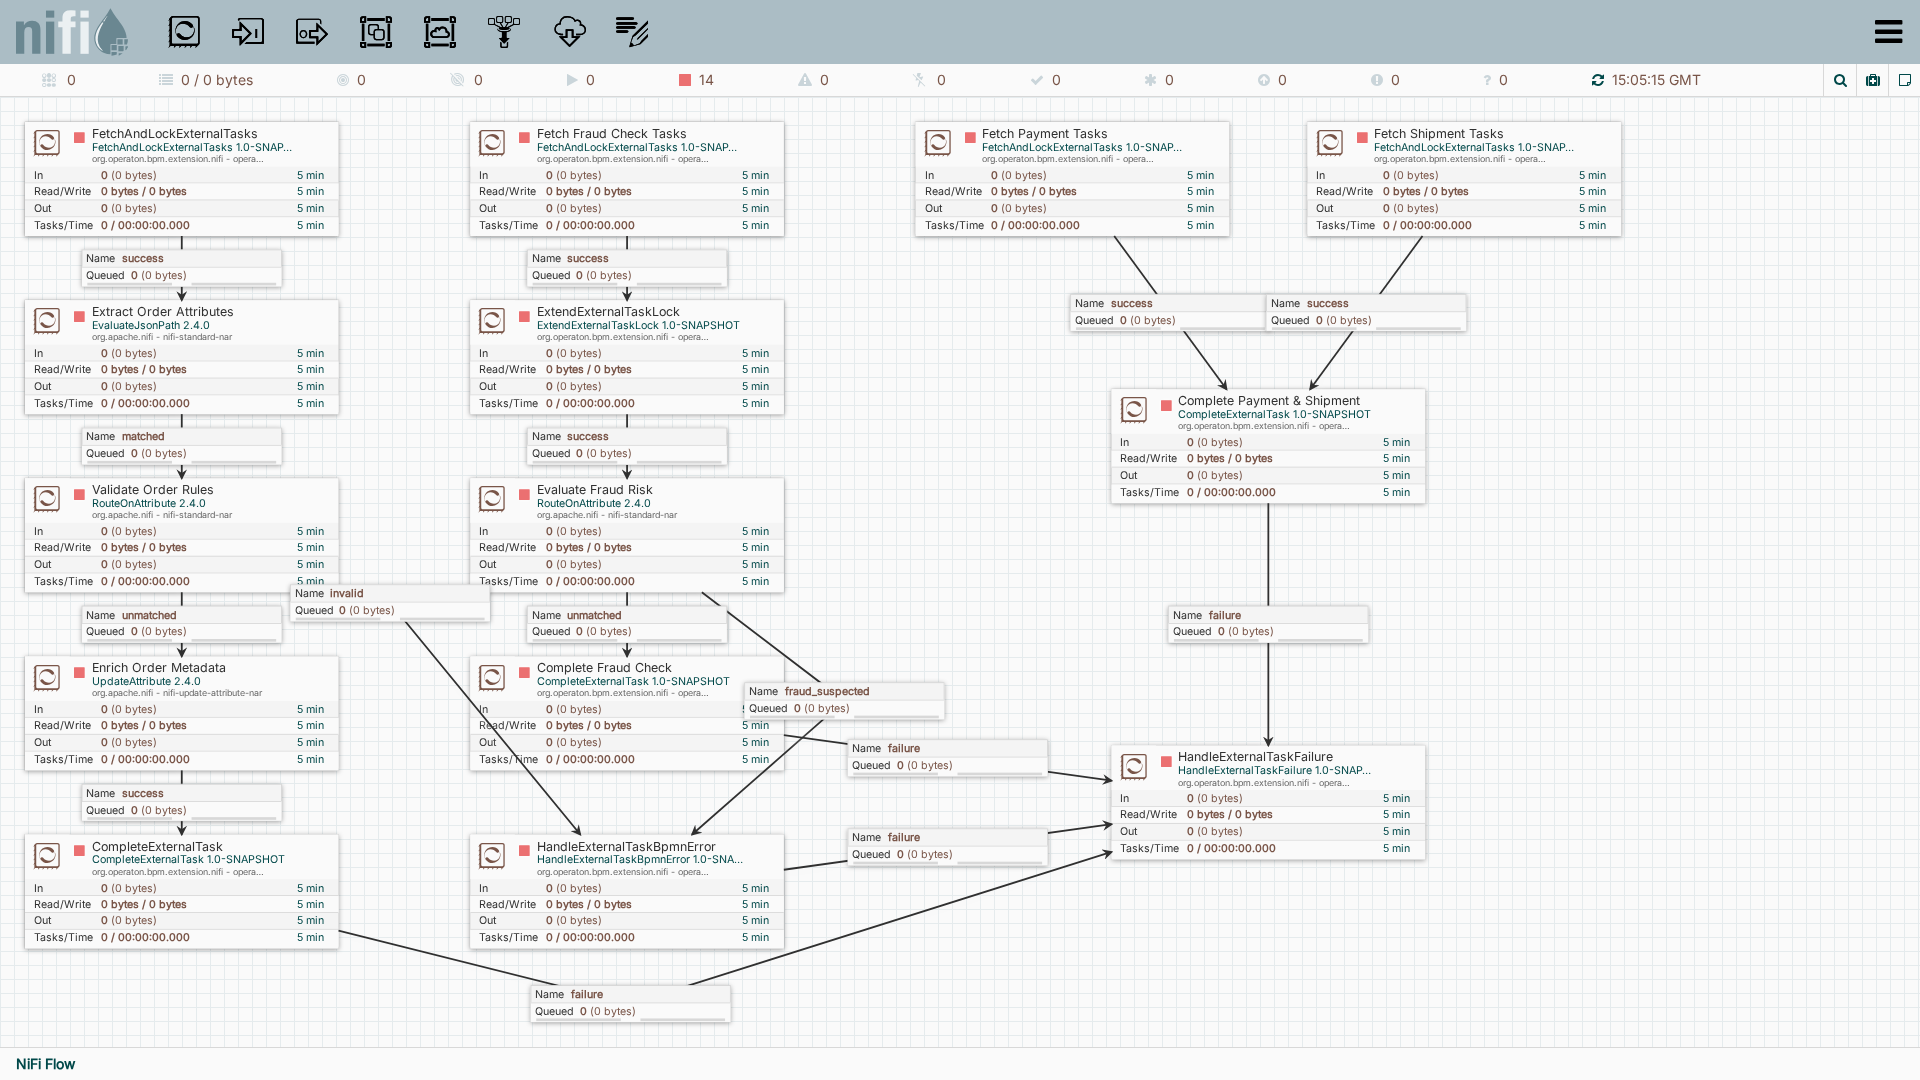
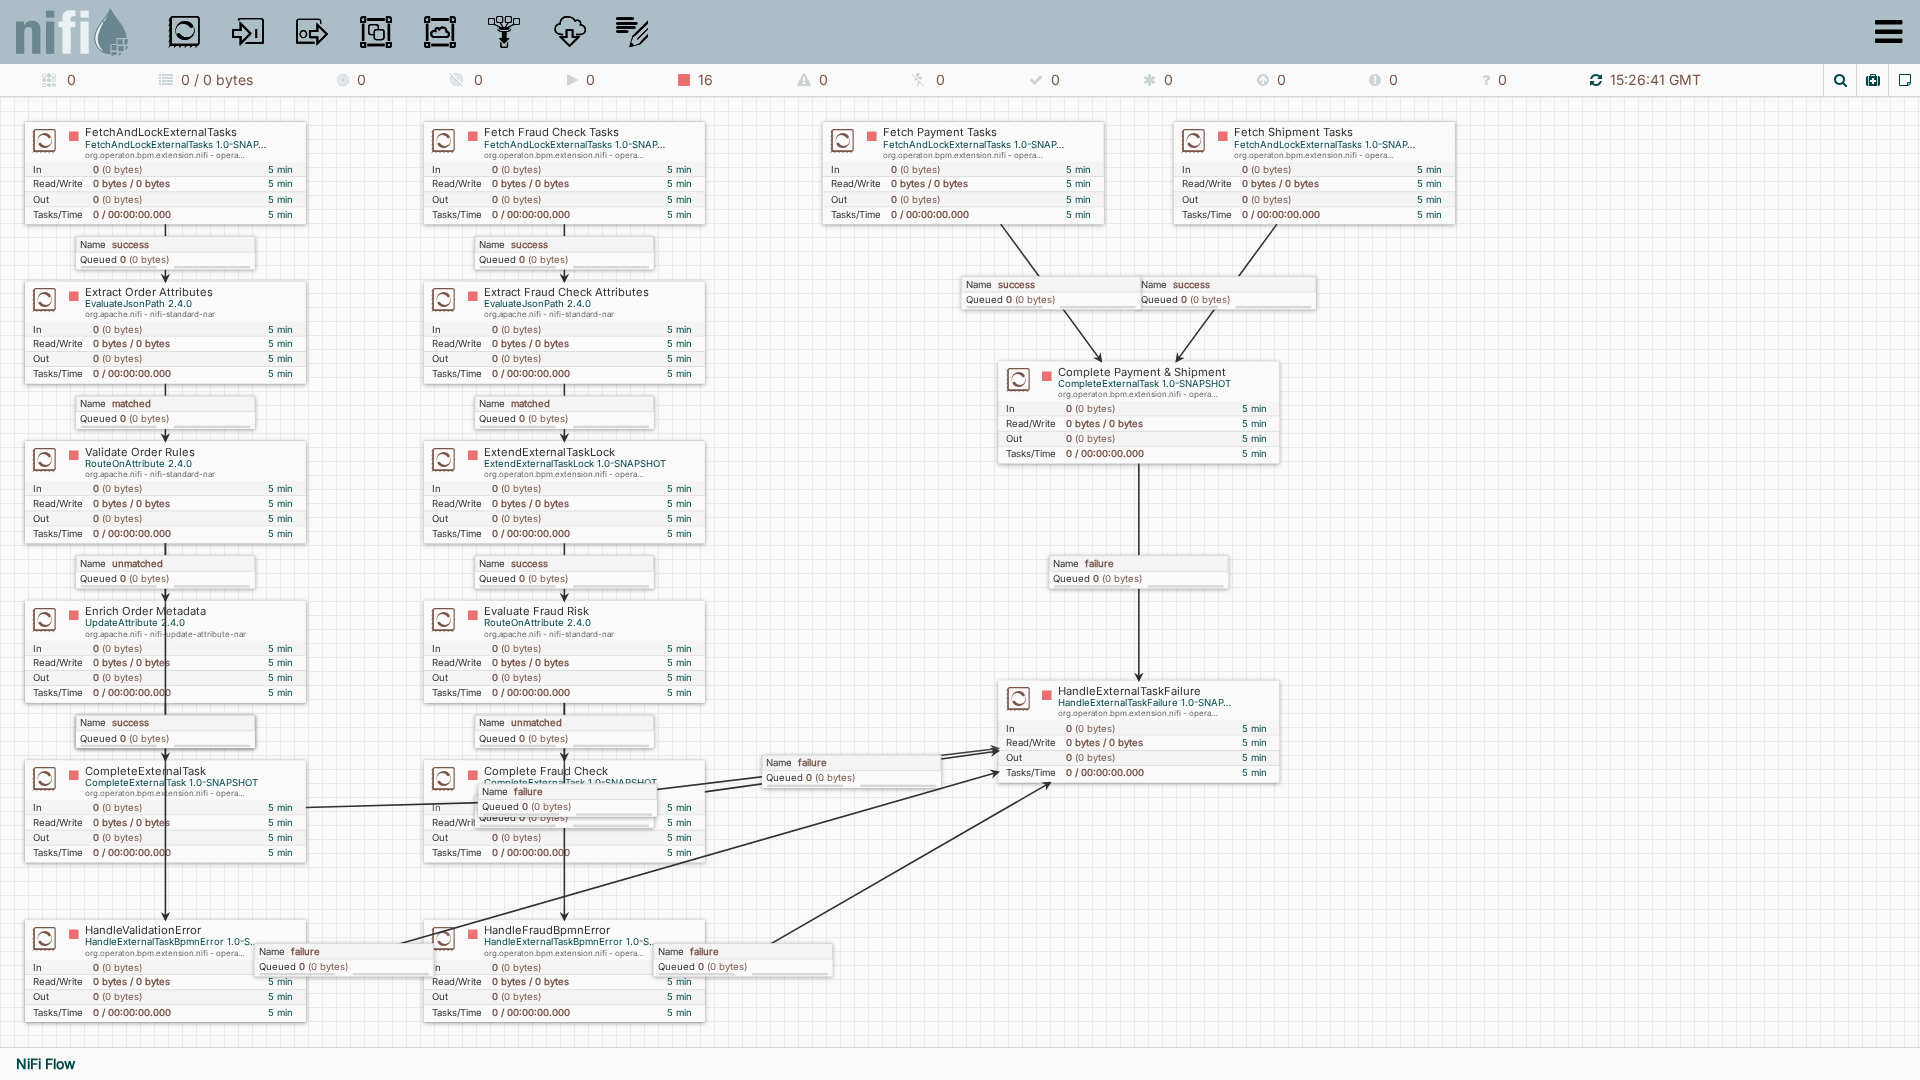
fix(docs): update NiFi canvas screenshot and fit sequence in capture script
- Click Fit before hiding navigation panels in capture_screenshots.py to ensure all 16 processors are cleanly framed
- Update docs/images/01-nifi-flow-canvas.png showing the dedicated HandleValidationError and Extract Fraud Check Attributes processors

Assisted-by: Antigravity (Gemini 3.8 Flash)

diff --git a/docs/scripts/capture_screenshots.py b/docs/scripts/capture_screenshots.py
@@ -74,10 +74,13 @@ def capture_nifi(page, nifi_url: str, output_dir: str):
 
     page.wait_for_timeout(3500)
 
-    # Collapse Navigation and Operation drawers so the canvas has full width, then fit
+    # Click Fit first while navigation controls are visible, then hide panels for clear capture
     try:
+        fit_btn = page.locator('button[title="Fit"], button:has(.fa-expand)').first
+        if fit_btn.is_visible():
+            fit_btn.click()
+            page.wait_for_timeout(1000)
         page.evaluate("""() => {
-            const nav = document.querySelector('#navigation-control button, .nav-resizer button, button:has(.fa-minus-square-o)');
             const drawers = document.querySelectorAll('button[title="Hide navigation"], button[title="Hide operation"], .dock-panel-resizer');
             drawers.forEach(d => d.click());
             const navPanel = document.querySelector('#navigation-control, .navigation-control');
@@ -86,10 +89,6 @@ def capture_nifi(page, nifi_url: str, output_dir: str):
             if (opPanel) opPanel.style.display = 'none';
         }""")
         page.wait_for_timeout(500)
-        fit_btn = page.locator('button[title="Fit"], button:has(.fa-expand)').first
-        if fit_btn.is_visible():
-            fit_btn.click()
-            page.wait_for_timeout(1000)
     except Exception as e:
         print(f"Notice adjusting NiFi canvas viewport: {e}")
 
